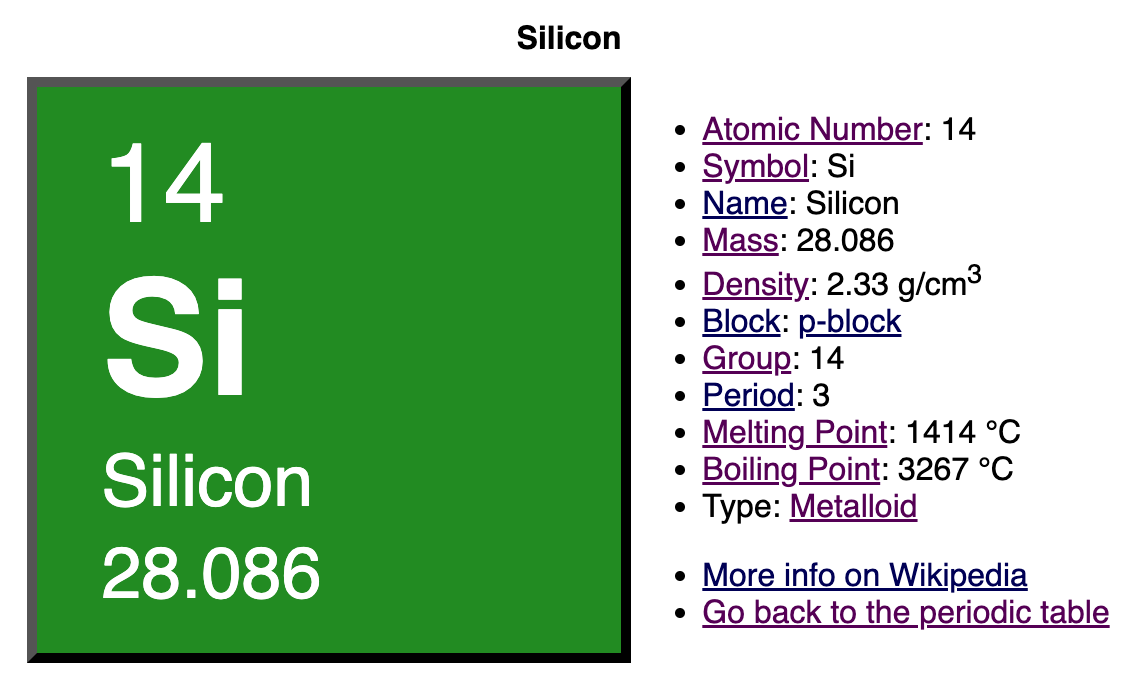
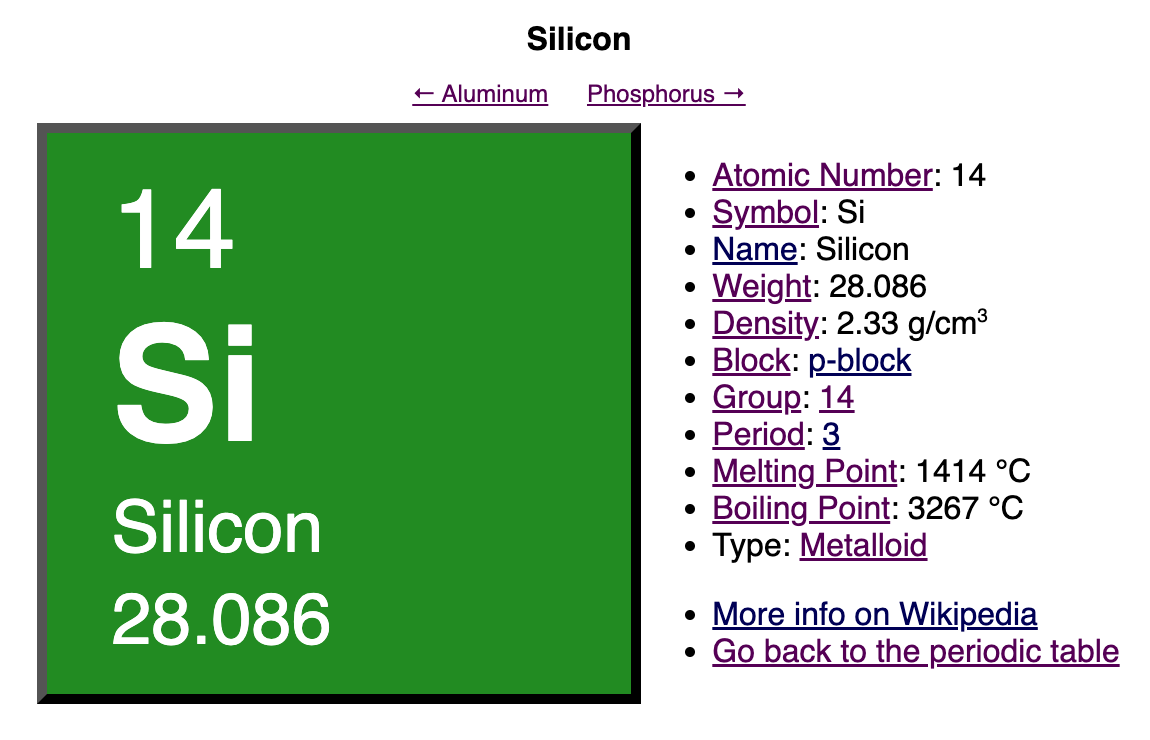
Add navigation to the element detail page.

diff --git a/client/index.js b/client/index.js
@@ -211,6 +211,7 @@ class Elements {
             document.title = element.name;
             html += '<main>';
             html += `<h1>${document.title}</h1>`;
+            html += Elements.renderElementNav(protons);
             html += Elements.renderElement(protons);
             html += '</main>';
         }
@@ -384,6 +385,23 @@ class Elements {
         html += '</ul>';
         html += '</aside>';
         html += '</section>';
+
+        return html;
+    }
+
+    static renderElementNav(protons) {
+        protons = parseInt(protons);
+        const prev = Elements.data[protons - 1];
+        const next = Elements.data[protons + 1];
+
+        let html = '<nav>';
+        if (prev) {
+            html += `<a href="?protons=${protons - 1}">&larr; ${prev.name}</a> `;
+        }
+        if (next) {
+            html += `<a href="?protons=${protons + 1}">${next.name} &rarr;</a>`;
+        }
+        html += '</nav>';
 
         return html;
     }

diff --git a/client/main.css b/client/main.css
@@ -14,6 +14,15 @@ h1 {
     text-align: center;
 }
 
+nav {
+    font-size: 1.5rem;
+    margin: 1rem;
+    text-align: center;
+}
+nav a {
+    padding: 0 1rem;
+}
+
 sub, sup {
     font-size: 0.6em;
 }
